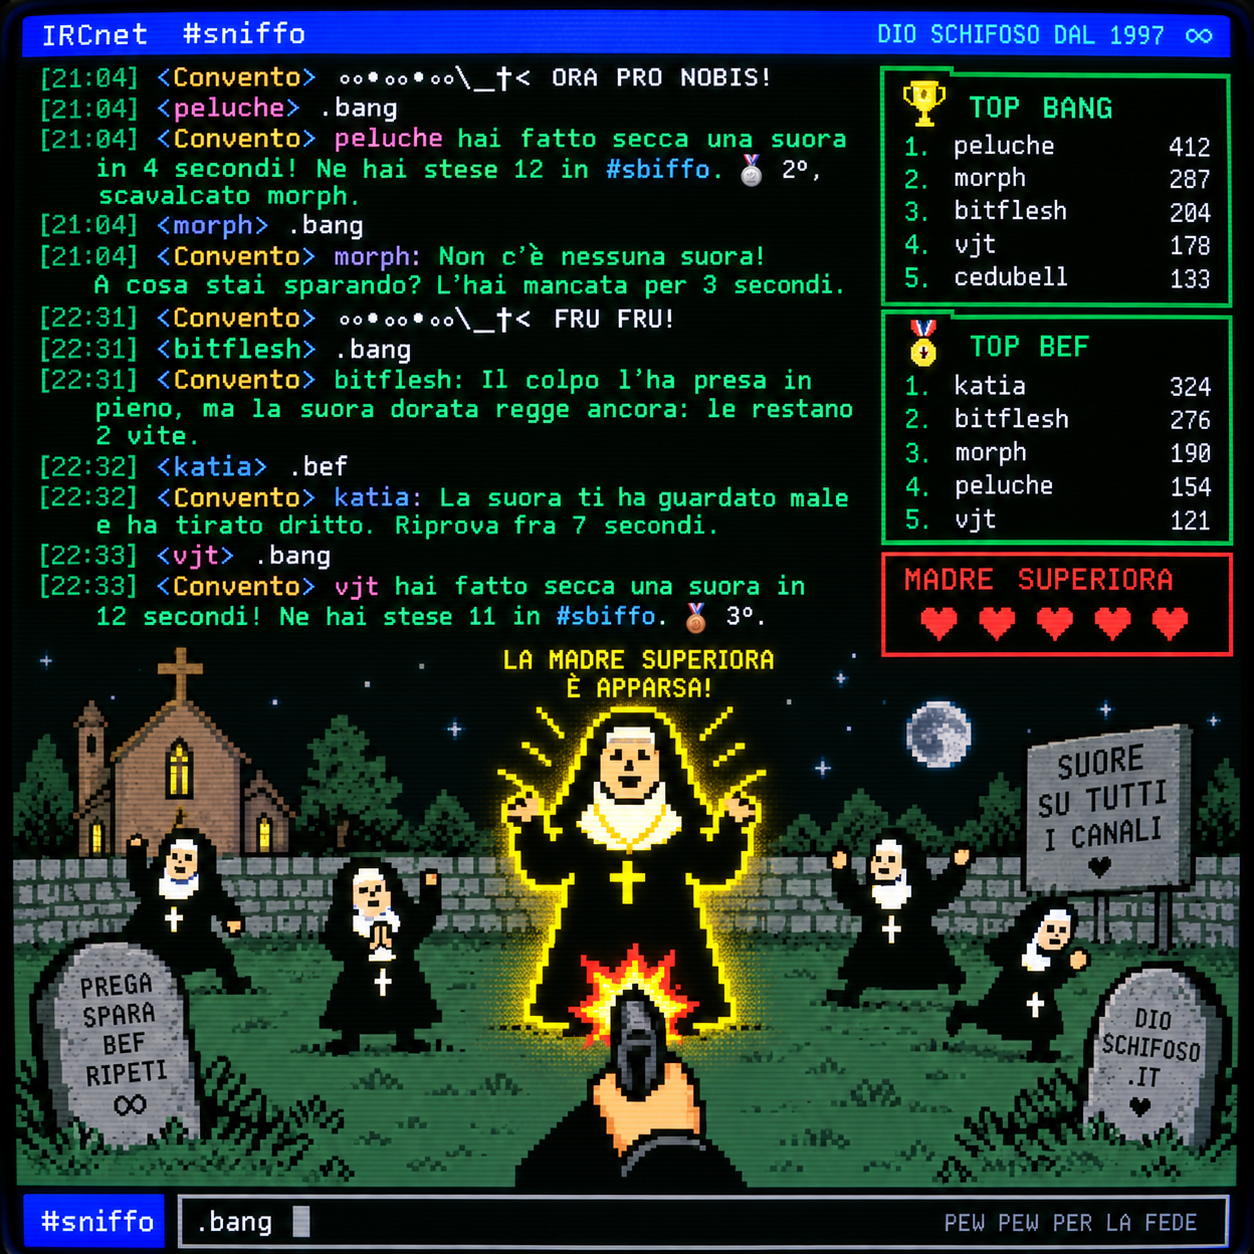
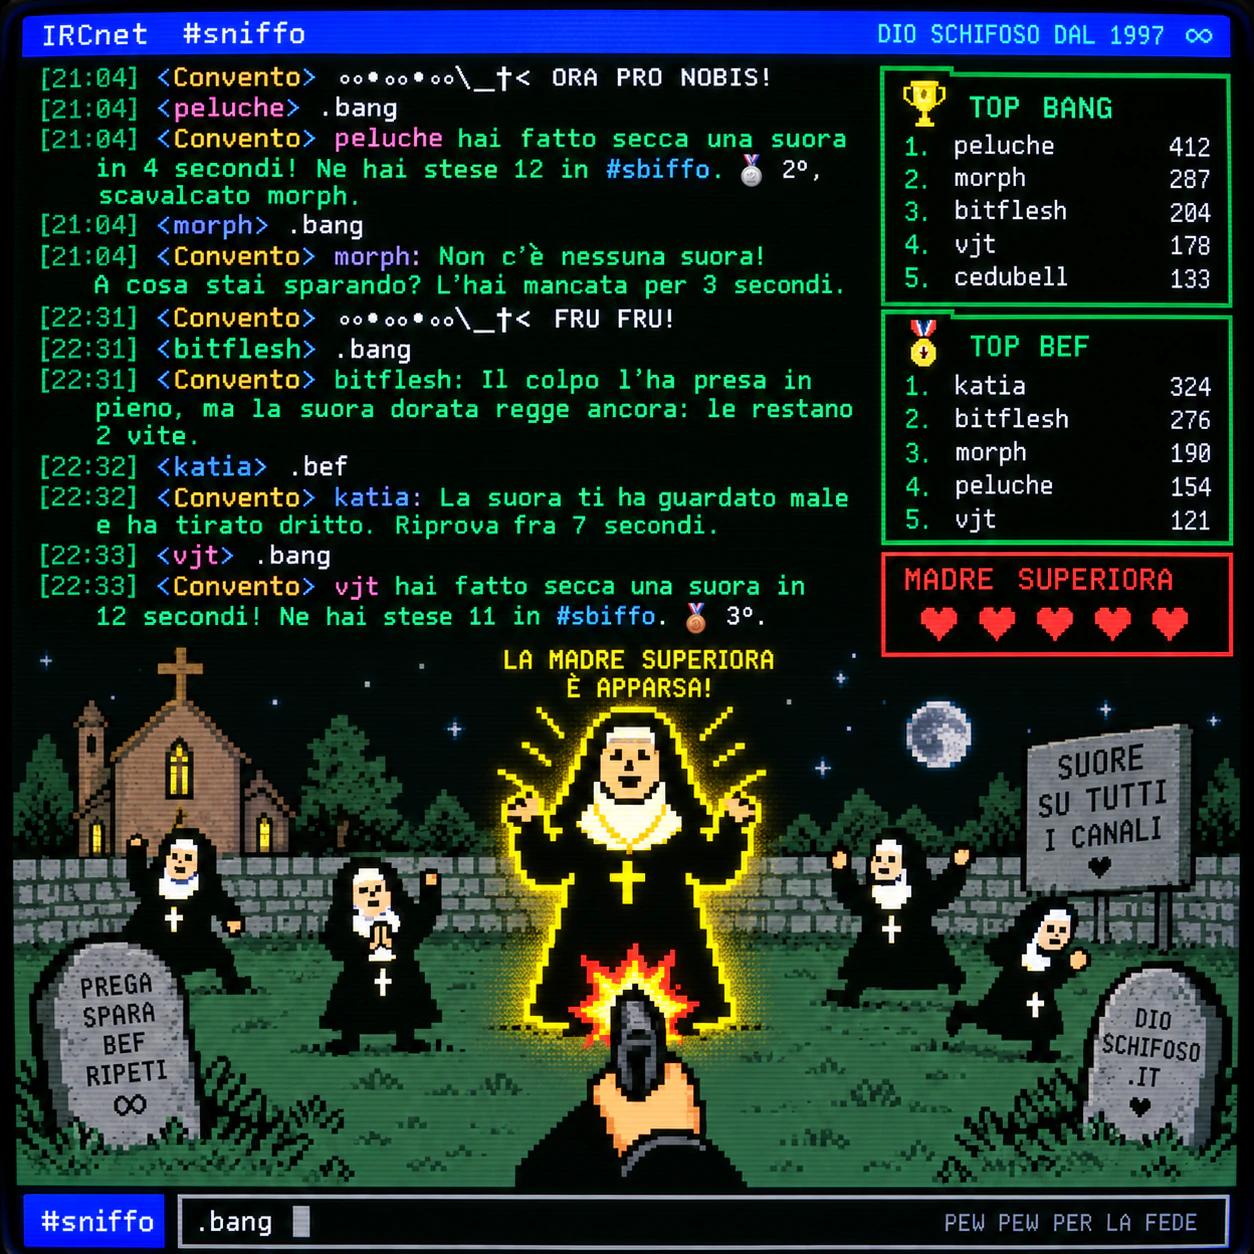
suore: make the cover WebP lossy at q=90
Lossless only bought 18%. Lossy at q=90 takes the cover from 1861888 to
316422 bytes. The subject is a screenshot full of text, so chroma
subsampling is off (`-sampling-factor 4:4:4`) and sharp YUV is on: that
pair cuts RMSE from 2.15% to 1.45% for 7% more bytes.

Changed region(s): [[0.4665, 0.7775, 0.4976, 0.8086]]

diff --git a/web/suore/index.html b/web/suore/index.html
@@ -133,9 +133,13 @@
        riserva il posto e la pagina non salta quando l'immagine arriva.
        `image-rendering: pixelated` nel CSS: senza, il ridimensionamento
        interpola e la pixel art viene fuori sfocata.
-       WebP **lossless** (`-define webp:lossless=true`), non lossy: verificato
-       pixel per pixel contro il PNG originale con `magick compare -metric AE`,
-       che da' 0. Stessi 1254x1254, 340 KB in meno. -->
+       WebP lossy q=90 su ordine esplicito (il lossless faceva solo -18%, qui
+       si passa da 1861888 a 316422 byte, -83%). Due accortezze obbligate
+       perche' il soggetto e' una schermata piena di testo, non una foto:
+       `-sampling-factor 4:4:4` (niente sottocampionamento della crominanza, o
+       il verde su nero sbava) e `-define webp:use-sharp-yuv=true`. Insieme
+       tolgono un terzo dell'errore per un 7% di byte: RMSE 1.45% contro
+       2.15% del 4:2:0 alla stessa q. -->
   <img class="cover" src="cover.webp" width="1254" height="1254" decoding="async"
        alt="Pixel art: la Madre Superiora appare in un cimitero, cinque suore intorno e una canna di fucile in primo piano.">
 
